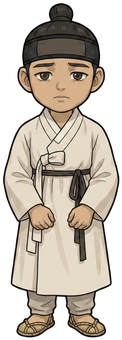
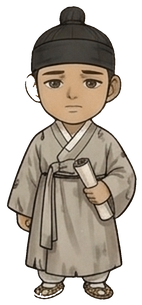
편찬실 배경 교체(12시 문) + 노산군 초상을 그리드본으로 교체
■ 편찬실
 12시에 닫힌 문, 6시는 벽인 배경으로 교체. 우하단 제미나이 로고는 바로 위
 같은 x의 민무늬 판벽을 밝기 정합 후 페더 합성해 제거.
 좌표는 25px 격자로 4분할해 눈으로 읽었다(std 기반 자동 검출은 방 전체가
 한 덩어리로 잡혀 못 씀). 책상은 열로 묶지 않고 하나씩 개별로만 막았다.
 검증: 보행 가능 34%, 그 전부가 스폰에서 도달 가능(고립된 칸 0).
 책상 사이 통로 7곳·의자 사이·인쇄틀 아래 전부 열림, 책상 위·인쇄틀·서가
 막힘 확인.

■ 노산군 초상
 단독 이미지로 뽑았더니 혼자 튀었다. 밝기 153(다른 NPC 60~98, 배경 87)에
 원본이 950px이라 선묘만 정교해서 나머지와 안 맞았다. 같은 그리드에서
 다시 뽑은 것으로 교체 — 밝기 123, 세로 305px로 다른 NPC(305~318)와
 나란해졌다. 옷도 표백된 흰색이 아니라 누런 무명이라 고증에도 더 맞다.

diff --git a/www/ch4.html b/www/ch4.html
@@ -311,25 +311,37 @@ const ZONES = {
     ],
   },
   gyeonggukdaejeon: {
+    // 배경을 12시 문 버전으로 교체하고 좌표를 25px 격자로 4분할해 눈으로 읽었다.
+    // 책상은 하나씩 개별로만 막는다 — 책상 열을 통째로 묶으면 사이 통로가
+    // 막혀서 걸어다닐 곳이 없어진다(집현전에서 이미 겪은 문제).
     img: 'assets/scenes/ch4_gyeonggukdaejeon.png', label: '경국대전 편찬실',
+    spawn: { x: 690, y: 590 },
     barriers: [
-      { x0:0, y0:0, x1:BG_W, y1:95 },        // 위쪽 서가 + 창
-      { x0:980, y0:85, x1:1290, y1:275 },    // 우상단 인쇄 목판 압착기
-      { x0:0, y0:85, x1:95, y1:700 },        // 좌측 서가
-      { x0:1290, y0:85, x1:BG_W, y1:700 },   // 우측 서가
-      { x0:140, y0:140, x1:350, y1:240 },    // 책상열1 좌
-      { x0:410, y0:140, x1:590, y1:240 },    // 책상열1 우
-      { x0:260, y0:320, x1:590, y1:470 },    // 책상열2 좌(문서 더미 포함)
-      { x0:790, y0:390, x1:1230, y1:480 },   // 책상열2 우
-      { x0:140, y0:505, x1:590, y1:615 },    // 책상열3 좌
-      { x0:790, y0:505, x1:1230, y1:615 },   // 책상열3 우
-      { x0:60, y0:655, x1:390, y1:725 },     // 아래 왼쪽 서가
-      { x0:990, y0:655, x1:1310, y1:725 },   // 아래 오른쪽 서가
+      { x0:0, y0:0, x1:90, y1:BG_H },        // 좌측 벽·서가
+      { x0:1288, y0:0, x1:BG_W, y1:BG_H },   // 우측 벽·서가
+      { x0:0, y0:0, x1:BG_W, y1:95 },        // 위쪽 벽(가운데가 12시 문)
+      { x0:0, y0:724, x1:BG_W, y1:BG_H },    // 아래쪽 벽
+      { x0:83, y0:686, x1:375, y1:724 },     // 아래 활자 보관함(좌)
+      { x0:1013, y0:686, x1:1293, y1:724 },  // 아래 활자 보관함(우)
+      { x0:993, y0:95, x1:1240, y1:250 },    // 인쇄틀
+      // 1행 책상 3개 + 의자
+      { x0:160, y0:152, x1:320, y1:225 }, { x0:205, y0:240, x1:275, y1:296 },
+      { x0:410, y0:152, x1:575, y1:225 }, { x0:455, y0:240, x1:525, y1:300 },
+      { x0:640, y0:152, x1:803, y1:225 }, { x0:688, y0:240, x1:758, y1:296 },
+      // 가운데 책상(문서 더미 포함)
+      { x0:410, y0:338, x1:575, y1:412 }, { x0:415, y0:412, x1:570, y1:460 },
+      // 우측 중간 책상 2개
+      { x0:800, y0:399, x1:968, y1:479 }, { x0:1050, y0:399, x1:1216, y1:479 },
+      // 3행 책상 4개 + 의자
+      { x0:160, y0:544, x1:325, y1:616 }, { x0:213, y0:624, x1:273, y1:680 },
+      { x0:413, y0:544, x1:575, y1:616 }, { x0:465, y0:624, x1:525, y1:680 },
+      { x0:800, y0:544, x1:968, y1:616 }, { x0:858, y0:624, x1:916, y1:680 },
+      { x0:1050, y0:544, x1:1216, y1:616 }, { x0:1108, y0:624, x1:1163, y1:680 },
     ],
     npcs: [
-      { id: 'seongjong', name: '성종', x: 688, y: 340, img: 'assets/portraits/seongjong.png', look: { role: 'king', body: '#4a6b3d', accent: '#e0b94a' } },
+      { id: 'seongjong', name: '성종', x: 690, y: 300, img: 'assets/portraits/seongjong.png', look: { role: 'king', body: '#7a2f3d', accent: '#e0b94a' } },
     ],
-    exits: [ { rect:{x0:600,y0:735,x1:780,y1:768}, to:'hongmungwan', spawn:{x:690,y:590}, label:'홍문관으로' } ],
+    exits: [ { rect:{x0:635,y0:95,x1:748,y1:148}, to:'hongmungwan', spawn:{x:688,y:520}, label:'홍문관으로' } ],
   },
   jibang_goeul: {
     // 새 배경: 관아(가장 큰 담장 안, 좌상) · 향교(가운데 담장 안, 두 채) ·
